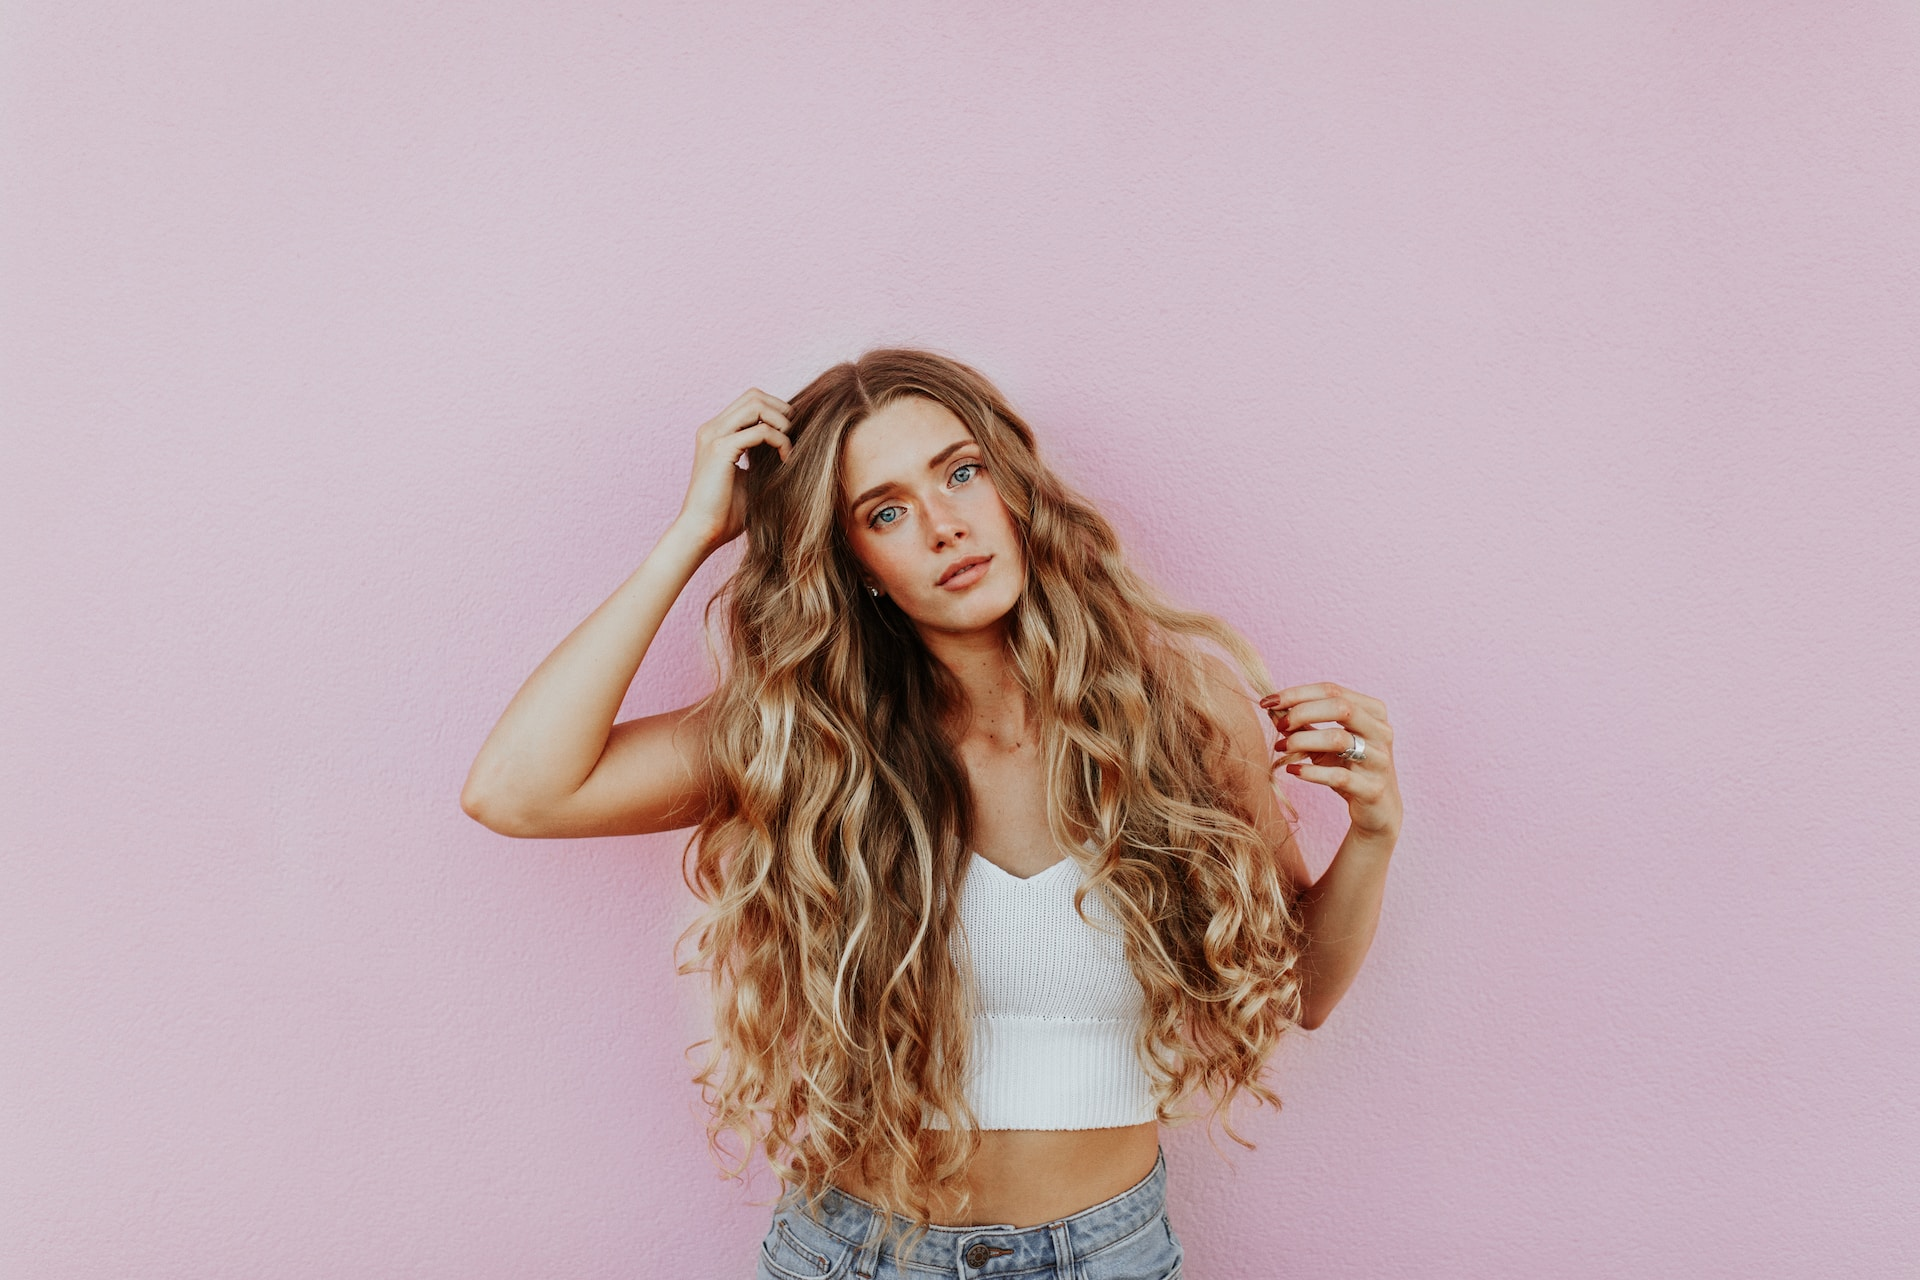
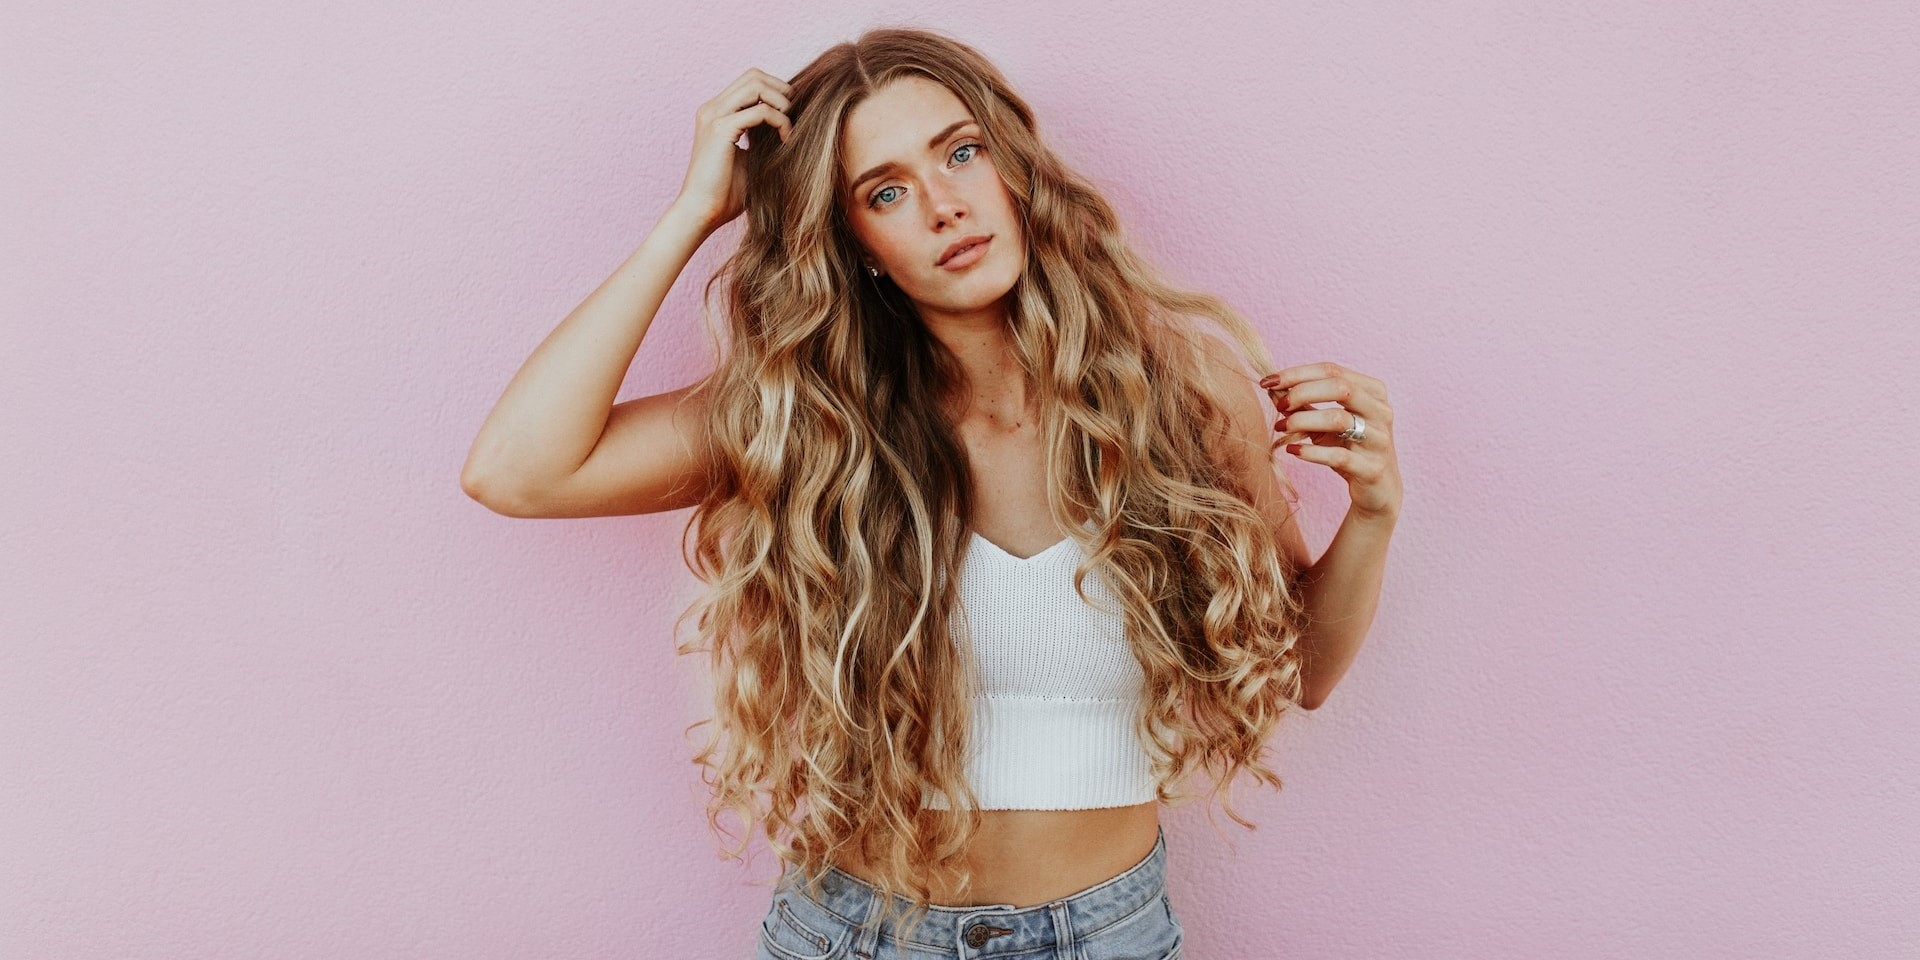
chore: using swiper.js for hero slider

Changed region(s): [[0.2188, 0.0312, 0.75, 1.0]]

diff --git a/components/home/Hero.tsx b/components/home/Hero.tsx
@@ -5,95 +5,85 @@
 'use client';
 
 // Dependencies
-import * as React from 'react';
+import React from 'react';
 import Image from 'next/image';
-import Carousel from 'react-multi-carousel';
-import 'react-multi-carousel/lib/styles.css';
+import { Swiper, SwiperSlide } from 'swiper/react';
+import { Pagination, EffectFade, Autoplay, Navigation } from 'swiper/modules';
+// import Carousel from 'react-multi-carousel';
+// import 'react-multi-carousel/lib/styles.css';
 
-const works = [
+import 'swiper/css';
+import 'swiper/css/effect-fade';
+import 'swiper/css/navigation';
+import 'swiper/css/pagination';
+
+const slides = [
 	{
-		artist: 'Ornella Binni',
 		art: '/images/hero/1.jpg',
 	},
 	{
-		artist: 'Tom Byrom',
 		art: '/images/hero/2.jpg',
 	},
 	{
-		artist: 'Vladimir Malyavko',
 		art: '/images/hero/3.jpg',
 	},
 	{
-		artist: 'Ornella Binni',
 		art: '/images/hero/1.jpg',
 	},
 	{
-		artist: 'Tom Byrom',
 		art: '/images/hero/2.jpg',
 	},
 	{
-		artist: 'Vladimir Malyavko',
 		art: '/images/hero/3.jpg',
 	},
 	{
-		artist: 'Ornella Binni',
 		art: '/images/hero/1.jpg',
 	},
 	{
-		artist: 'Tom Byrom',
 		art: '/images/hero/2.jpg',
 	},
 	{
-		artist: 'Vladimir Malyavko',
 		art: '/images/hero/3.jpg',
 	},
 ];
 
-const responsive = {
-	desktop: {
-		breakpoint: { max: 3000, min: 1024 },
-		items: 1,
-	},
-	tablet: {
-		breakpoint: { max: 1024, min: 464 },
-		items: 1,
-	},
-	mobile: {
-		breakpoint: { max: 464, min: 0 },
-		items: 1,
-	},
-};
-
 export default function Hero() {
 	return (
 		<section className='w-full h-fit'>
-			<Carousel
-				responsive={responsive}
-				ssr
-				autoPlay
-				infinite
-				slidesToSlide={1}
-				itemClass='image-item'
-				deviceType={''}
-				autoPlaySpeed={2000}
-				customRightArrow={<div></div>}
-				customLeftArrow={<div></div>}
-				transitionDuration={500}
-				centerMode={true}
+			<Swiper
+				slidesPerView={1}
+				spaceBetween={30}
+				centeredSlides={true}
+				navigation={true}
+				pagination={{
+					dynamicBullets: true,
+					clickable: true,
+				}}
+				autoplay={{
+					delay: 2500,
+					disableOnInteraction: false,
+				}}
+				modules={[Pagination, Autoplay, Navigation, EffectFade]}
+				className='mySwiper'
+				effect='fade'
+				loop={true}
 			>
-				{works.map((image, idx) => {
+				{slides.map((image, idx) => {
 					return (
-						<Image
-							className='w-screen aspect-[9/16] md:aspect-square lg:aspect-video h-full object-cover'
-							width={450}
-							height={350}
-							key={idx}
-							src={image.art}
-							alt={image.artist}
-						/>
+						<SwiperSlide key={idx} className=''>
+							<Image
+								className='w-full aspect-[9/16] md:aspect-square lg:aspect-video h-auto object-cover'
+								width={450}
+								height={350}
+								key={idx}
+								src={image.art}
+								alt=''
+								unoptimized
+							/>
+						</SwiperSlide>
 					);
 				})}
-			</Carousel>
+			</Swiper>
 		</section>
 	);
 }
